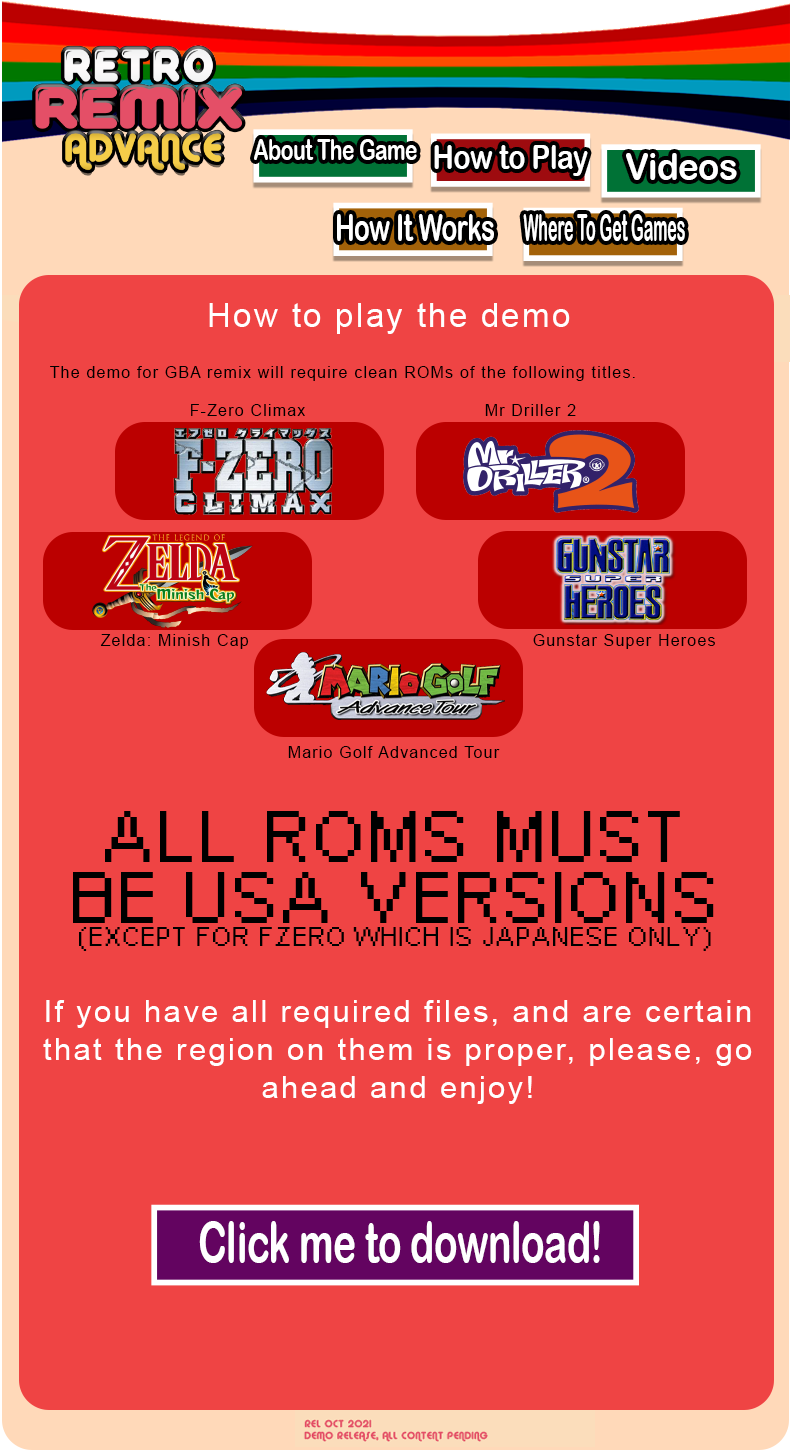
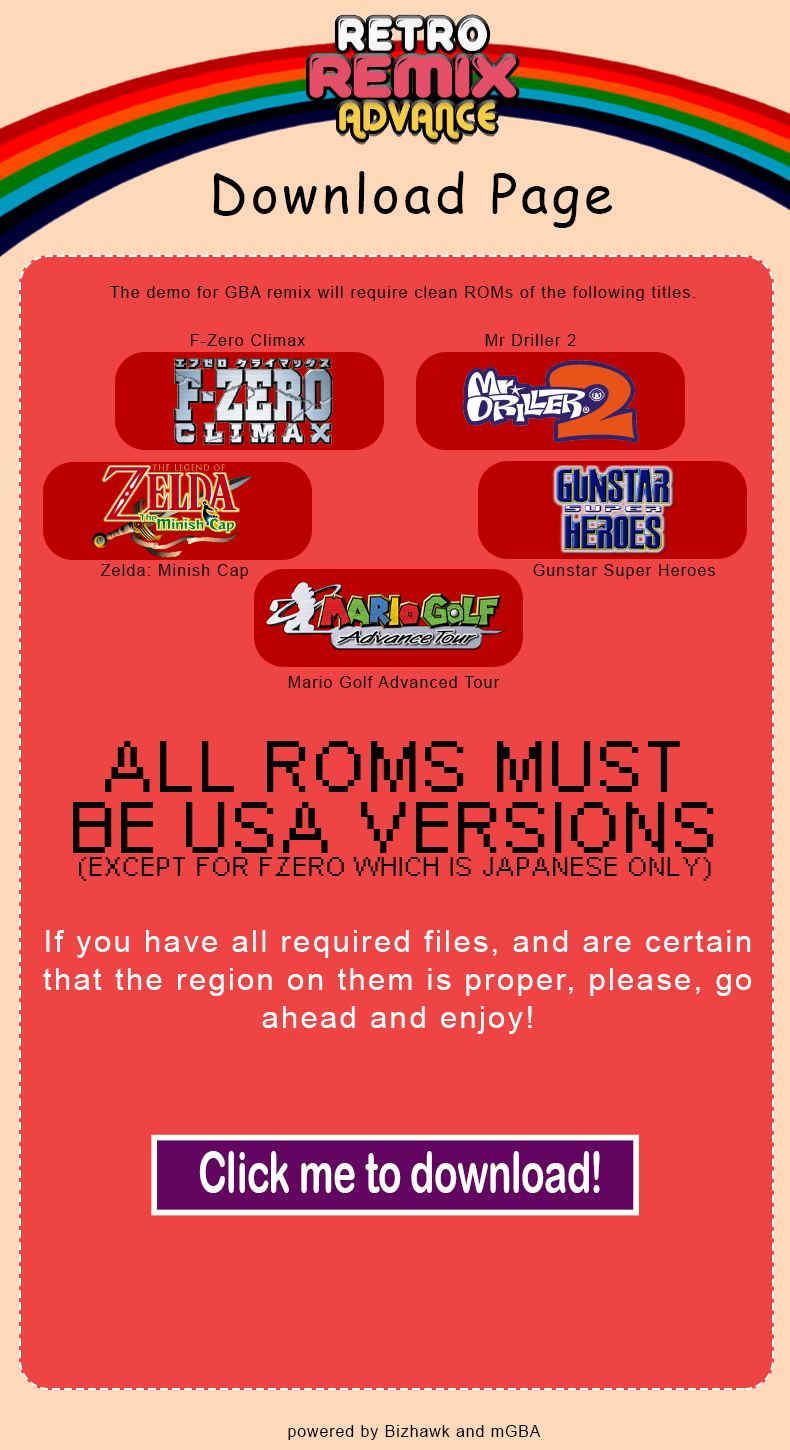
initial launch
whoo

diff --git a/download.html b/download.html
@@ -19,22 +19,16 @@
 
 <div class="container">
 <!-- Image Map Generated by http://www.image-map.net/ -->
-<!-- Image Map Generated by http://www.image-map.net/ -->
 <img src="Download-Page.png" usemap="#image-map">
 
 <map name="image-map">
-    <area target="" alt="" title="" href="about" coords="254,136,410,181" shape="rect">
-    <area target="" alt="" title="" href="download.html" coords="432,139,590,185" shape="rect">
-    <area target="" alt="" title="" href="videos" coords="606,148,756,197" shape="rect">
-    <area target="" alt="" title="" href="howitworks" coords="335,208,491,252" shape="rect">
-    <area target="" alt="" title="" href="wheretogetgames" coords="526,209,682,261" shape="rect">
-    <area target="" alt="" title="" href="index.html" coords="24,36,245,181" shape="rect">
-    <area target="" alt="" title="" href="https://www.google.com/search?b-1-d&amp;q=F-Zero+Climax" coords="115,426,385,518" shape="rect">
-    <area target="" alt="" title="" href="https://www.google.com/search?q=Mr+Driller+2" coords="422,417,681,524" shape="rect">
-    <area target="" alt="" title="" href="https://www.google.com/search?q=Zelda+Minish+Cap" coords="49,529,311,630" shape="rect">
-    <area target="" alt="" title="" href="https://www.google.com/search?q=Gunstar+Super+Heroes" coords="488,534,742,624" shape="rect">
-    <area target="" alt="" title="" href="https://www.google.com/search?q=Mario+Golf+Advance+Tour" coords="266,647,515,731" shape="rect">
-    <area target="" alt="" title="" href="download" coords="154,1203,639,1283" shape="rect">
+    <area target="" alt="" title="" href="index.html" coords="298,13,538,151" shape="rect">
+    <area target="" alt="" title="" href="https://www.google.com/search?b-1-d&amp;amp;q=F-Zero+Climax" coords="113,325,388,456" shape="rect">
+    <area target="" alt="" title="" href="https://www.google.com/search?q=Mr+Driller+2" coords="418,334,685,454" shape="rect">
+    <area target="" alt="" title="" href="https://www.google.com/search?q=Zelda+Minish+Cap" coords="52,458,306,564" shape="rect">
+    <area target="" alt="" title="" href="https://www.google.com/search?q=Gunstar+Super+Heroes" coords="483,455,751,563" shape="rect">
+    <area target="" alt="" title="" href="https://www.google.com/search?q=Mario+Golf+Advance+Tour" coords="258,573,526,690" shape="rect">
+    <area target="" alt="" title="" href="https://drive.google.com/file/d/1CQXxKBqPCkENIierojHCE2pIisT74F3H/view?usp=sharing" coords="156,1135,638,1213" shape="rect">
 </map>
 </div>
   </body>

diff --git a/index.html b/index.html
@@ -19,15 +19,13 @@
 
 <div class="container">
 <!-- Image Map Generaasfasfted by http://www.image-map.net/ -->
+<!-- Image Map Generated by http://www.image-map.net/ -->
 <img src="Site Mockup.png" usemap="#image-map">
 
 <map name="image-map">
-    <area target="" alt="" title="" href="about" coords="409,179,262,133" shape="rect">
-    <area target="" alt="" title="" href="download.html" coords="435,139,588,185" shape="rect">
-    <area target="" alt="" title="" href="videos" coords="607,149,757,198" shape="rect">
-    <area target="" alt="" title="" href="howitworks" coords="336,205,493,257" shape="rect">
-    <area target="" alt="" title="" href="wheretogetgames" coords="522,210,686,263" shape="rect">
-    <area target="" alt="" title="" href="download.html" coords="661,703,345,645" shape="rect">
+    <area target="_self" alt="" title="" href="" coords="279,17,492,149" shape="rect">
+    <area target="" alt="Download" title="Download" href="https://drive.google.com/file/d/1CQXxKBqPCkENIierojHCE2pIisT74F3H/view?usp=sharing" coords="13,1102,565,1134" shape="rect">
+    <area target="" alt="Download" title="Download" href="download.html" coords="563,180,746,260" shape="rect">
 </map>
 </div>
   </body>
